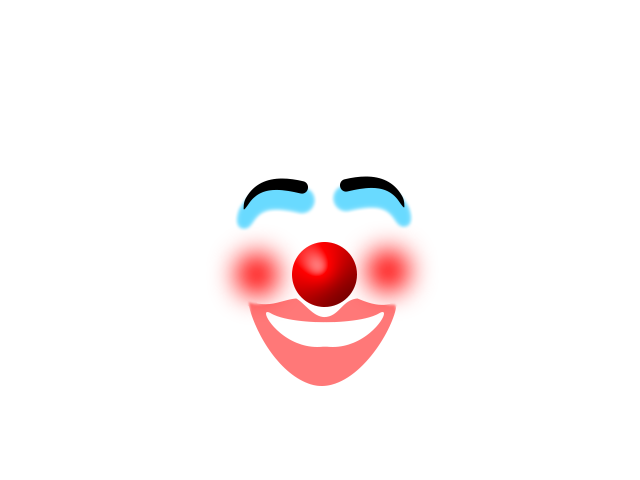
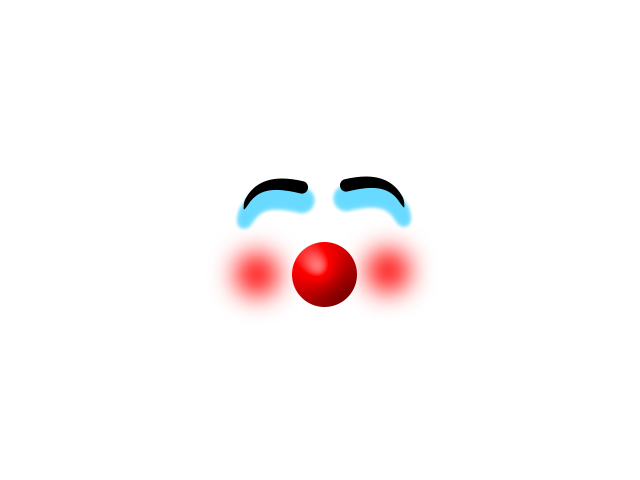
Seperate mask and mouth transforms for Clown, and add Juggalo

Changed region(s): [[0.375, 0.625, 0.625, 0.8125]]

diff --git a/inyourface/effect/Juggalo.py b/inyourface/effect/Juggalo.py
@@ -13,11 +13,11 @@ class EffectAnimator(Animator):
 
     frames = [0]
 
-    name = "clown"
+    name = "juggalo"
 
     mask_path = os.path.dirname(os.path.realpath(__file__)) + "/../../overlays/mask.png"
-    mask_elements_path = os.path.dirname(os.path.realpath(__file__)) + "/../../overlays/mask-elements.png"
-    mask_mouth_path = os.path.dirname(os.path.realpath(__file__)) + "/../../overlays/mask-mouth.png"
+    mask_elements_path = os.path.dirname(os.path.realpath(__file__)) + "/../../overlays/juggalo-elements.png"
+    mask_mouth_path = os.path.dirname(os.path.realpath(__file__)) + "/../../overlays/juggalo-mouth.png"
 
     average_points = np.array([[245, 215],
            [301, 212],

diff --git a/inyourface/effect/__init__.py b/inyourface/effect/__init__.py
@@ -4,3 +4,4 @@ from inyourface.effect.Googly import EffectAnimator
 from inyourface.effect.Crying import EffectAnimator
 from inyourface.effect.Cryingblood import EffectAnimator
 from inyourface.effect.Clown import EffectAnimator
+from inyourface.effect.Juggalo import EffectAnimator
